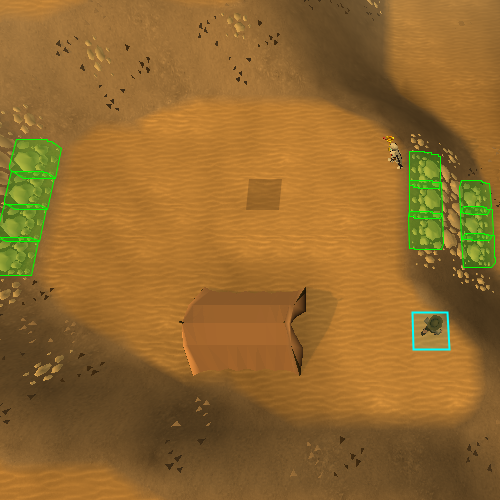
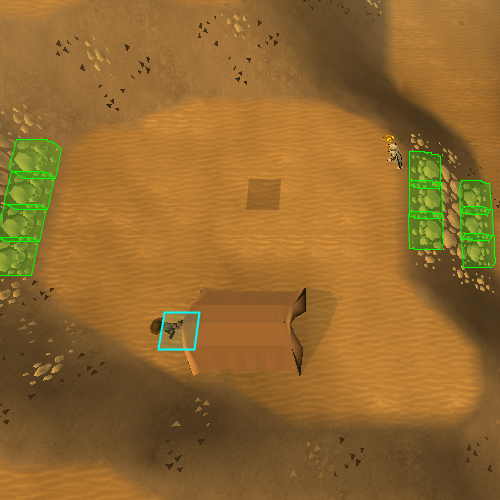
finished script for trading and resetting

diff --git a/opencv/opencv_testing.py b/opencv/opencv_testing.py
@@ -55,7 +55,7 @@ def trade_with_simon():
         print('Finished trading!')
 
 
-# trade_with_simon()
+trade_with_simon()
 
 
 def locate_start():
@@ -69,5 +69,11 @@ def locate_start():
 
 
 pag.moveTo(locate_start())
+pag.click()
+time.sleep(5)
+pag.moveTo(974 + p(-4, 4), 536 + p(-4, 4), r(0.25, 0.75))
+pag.click()
+time.sleep(7)
+pag.moveTo(1037 + p(-4, 4), 506 + p(-4, 4), r(0.25, 0.75))
 pag.click()
 
